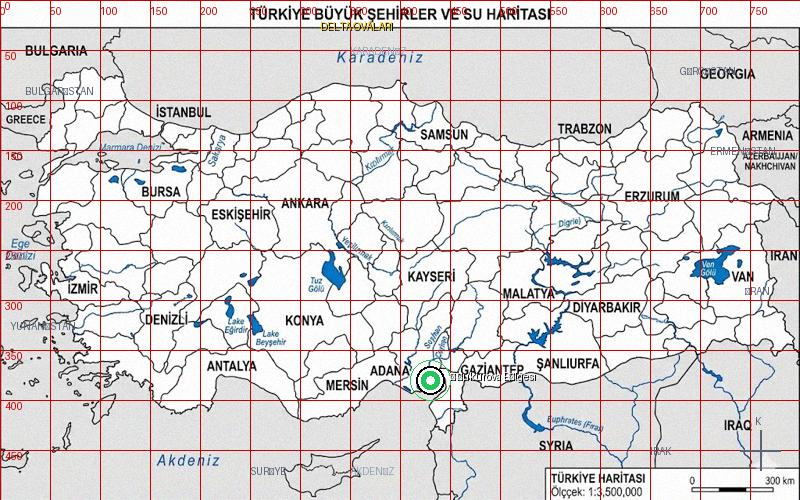
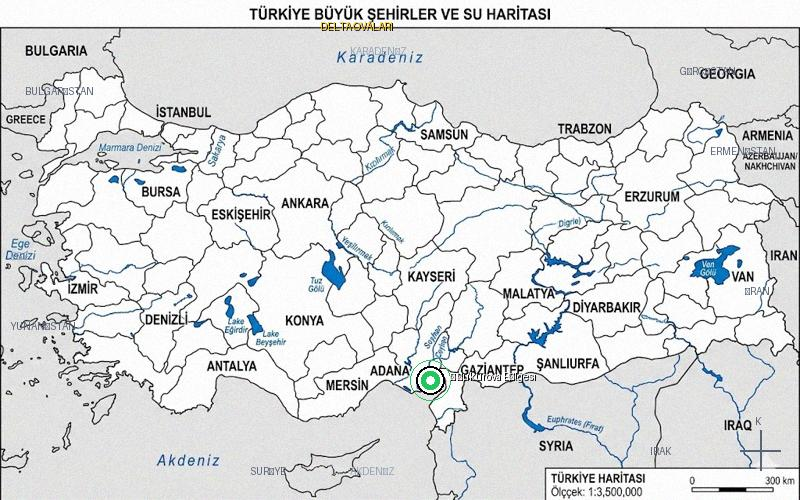
Auto-update maps: 2026-04-03 17:06:35

diff --git a/download_assets.py b/download_assets.py
@@ -5,7 +5,7 @@ from PIL import Image, ImageDraw, ImageFont, ImageFilter
 
 def download_kpss_images():
     # Kalibrasyon yapmak istersen burayı True yap knk, resimlerin üstüne koordinat yazar
-    DEBUG_MODE = True
+    DEBUG_MODE = False
 
     # 1. Klasörü oluştur
     if not os.path.exists("images"):
